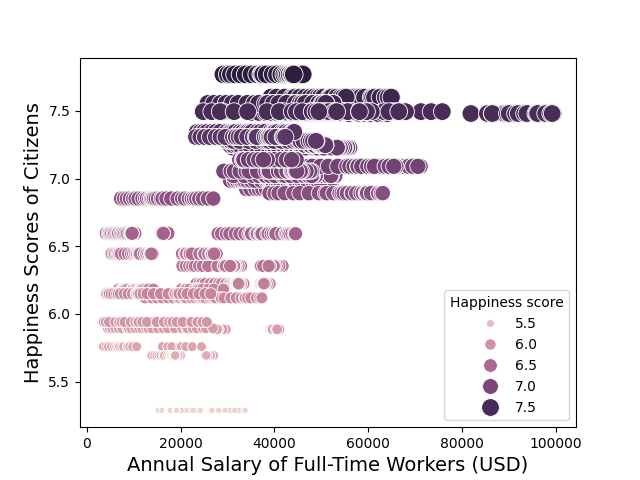
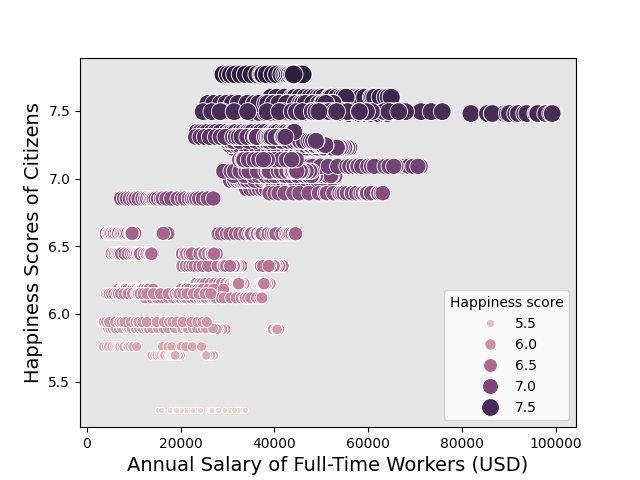
Add background color and resave figure as a png

diff --git a/main.py b/main.py
@@ -42,6 +42,8 @@ happiness_average_by_country = wage_and_happiness_by_country["Happiness score"].
 
 fig = sns.scatterplot(data=wage_and_happiness, x="Value", y="Happiness score", hue="Happiness score", size="Happiness score", sizes=(20, 180))
 
+fig.set_facecolor("#E5E5E5")
+
 plt.title = "Annual Salary and Happiness"
 
 plt.xlabel("Annual Salary of Full-Time Workers (USD)", fontsize=14)
